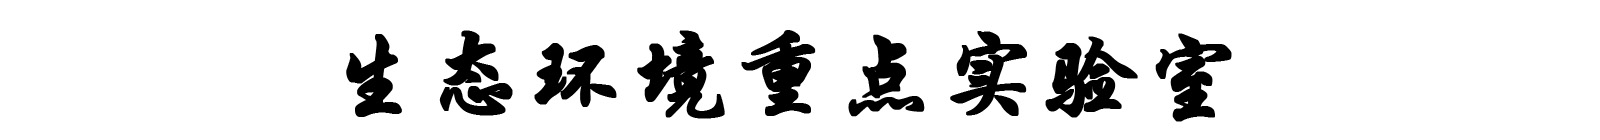
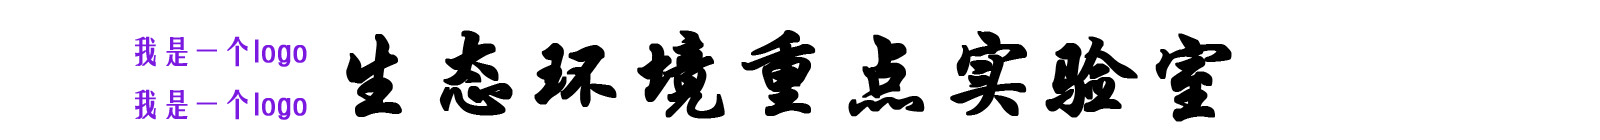
0728联系修改

Changed region(s): [[0.0625, 0.6286, 0.1875, 0.8571], [0.0625, 0.2571, 0.1875, 0.4857]]

diff --git a/liuna/homepage/index.html b/liuna/homepage/index.html
@@ -12,20 +12,31 @@
 
     <link href="css/bootstrap.min.css" rel="stylesheet">
     <link href="css/style.css" rel="stylesheet">
-
+    <style type='text/css'>
+      body {
+        background-color:#dec2f4;
+      }
+    </style>
   </head>
   <body>
 
     <div class="container-fluid">
 	<div class="row">
 		<div class="col-md-12">
-			<img alt="tittle" src="pic/00001.jpg">
-			<nav class="navbar navbar-default" role="navigation">
-				<div class="navbar-header">
-					 
-					<button type="button" class="navbar-toggle" data-toggle="collapse" data-target="#bs-example-navbar-collapse-1">
-						 <span class="sr-only">Toggle navigation</span><span class="icon-bar"></span><span class="icon-bar"></span><span class="icon-bar"></span>
-					</button> <a class="navbar-brand" href="#">首页</a>
+			<div class="row">
+				<div class="col-md-1">
+				</div>
+				<div class="col-md-10">
+					
+					<h1><img alt="Bootstrap Image Preview" src="pic/00003.png">
+						生态环境重点实验室
+					</h1>
+					<nav class="navbar navbar-default" role="navigation">
+						<div class="navbar-header">
+							 
+							<button type="button" class="navbar-toggle" data-toggle="collapse" data-target="#bs-example-navbar-collapse-1">
+								 <span class="sr-only">Toggle navigation</span><span class="icon-bar"></span><span class="icon-bar"></span><span class="icon-bar"></span>
+							</button> <a class="navbar-brand" href="#">首页</a>
 				</div>
 				
 				<div class="collapse navbar-collapse" id="bs-example-navbar-collapse-1">
@@ -180,40 +191,46 @@
                                                 
 					</ul>
 				</div>
-				
-			</nav>
-			<div class="carousel slide" id="carousel-256524">
+						
+					</nav>
+					<div class="carousel slide" id="carousel-256524">
 				<ol class="carousel-indicators">
 					<li data-slide-to="0" data-target="#carousel-256524">
 					</li>
 					<li data-slide-to="1" data-target="#carousel-256524" class="active">
 					</li>
-					<li data-slide-to="2" data-target="#carousel-256524">
+                                        <li data-slide-to="2" data-target="#carousel-256524">
 					</li>
 				</ol>
 				<div class="carousel-inner">
 					<div class="item">
-						<img alt="Carousel Bootstrap First" src="http://lorempixel.com/output/sports-q-c-1600-500-1.jpg">
+						<img alt="Carousel Bootstrap First" src="pic/00005.jpg">
 					</div>
 					<div class="item active">
-						<img alt="Carousel Bootstrap Second" src="http://lorempixel.com/output/sports-q-c-1600-500-2.jpg">
+						<img alt="Carousel Bootstrap Second" src="pic/00006.jpg">
 					</div>
-					<div class="item">
-						<img alt="Carousel Bootstrap Third" src="http://lorempixel.com/output/sports-q-c-1600-500-3.jpg">
+                                        <div class="item">
+						<img alt="Carousel Bootstrap Second" src="pic/00007.jpg">
 					</div>
 				</div> <a class="left carousel-control" href="#carousel-256524" data-slide="prev"><span class="glyphicon glyphicon-chevron-left"></span></a> <a class="right carousel-control" href="#carousel-256524" data-slide="next"><span class="glyphicon glyphicon-chevron-right"></span></a>
 			</div>
-                        <div class="row">
+				</div>
+				<div class="col-md-1">
+				</div>
+			</div>
+			<div class="row">
+				<div class="col-md-1">
+				</div>
 				<div class="col-md-4">
-					<table class="table table-condensed table-striped">
-						<thead>
-							<tr>
-								<th>
-									通知公告
-								</th>
-							</tr>
-						</thead>
-						<tbody>
+					<div class="panel panel-default">
+						<div class="panel-heading">
+							<h3 class="panel-title">
+								通知公告
+							</h3>
+						</div>
+						<div class="panel-body">
+							<table class="table table-condensed table-striped">
+						        <tbody>
 							<tr class="warning">
 								<td >
 									1
@@ -284,18 +301,22 @@
 									Call in to confirm
 								</td>
 							</tr>
-                                                        <tr>
-								<td>
-                                                                        <a href="#" class="btn" type="button">More >></a>
-                                                                </td>
-                                                        </tr>
-						</tbody>
-					</table> 
+						        </tbody>
+					                </table> 
+						</div>
+						<div class="panel-footer">
+							<a href="#" class="btn" type="button">More >></a>
+						</div>
+					</div>
 				</div>
-				<div class="col-md-8">
-					<h4>
-						实验室简介
-					</h4>
+				<div class="col-md-6">
+					<div class="panel panel-default">
+						<div class="panel-heading">
+							<h3 class="panel-title">
+								实验室简介
+							</h3>
+						</div>
+						<div class="panel-body">
 					<dl>
 						<dt>
 							实验室简介
@@ -307,9 +328,14 @@
 							实验室简介
 						</dt>
 						<dd>
-							实验室简介实验室简介实验室简介实验室简介实验室简介实验室简介实验室简介实验室简介实验室简介实验室简介实验室简介实验室简介实验室简介实验室简介实验室简介实验室简介实验室简介实验室简介实验室简介实验室简介实验室简介实验室简介实验室简介实验室简介
+							实验室简介实验室简介实验室简介实验室简介实验室简介实验室简介实验室简介实验室简介实验室简介实验室简介实验室简介实验室简介实验室简介实验室简介实验室简介实验室简介实验室简介实验室简介实验室简介实验室简介实验室简介实验室简介实验室简介实验室简介实验室简介实验室简介实验室简介实验室简介实验室简介实验室简介实验室简介实验室简介实验室简介实验室简介实验室简介
 						</dd>
-					</dl>
+						</div>
+						<div class="panel-footer">
+						</div>
+					</div>
+				</div>
+				<div class="col-md-1">
 				</div>
 			</div>
 		</div>
